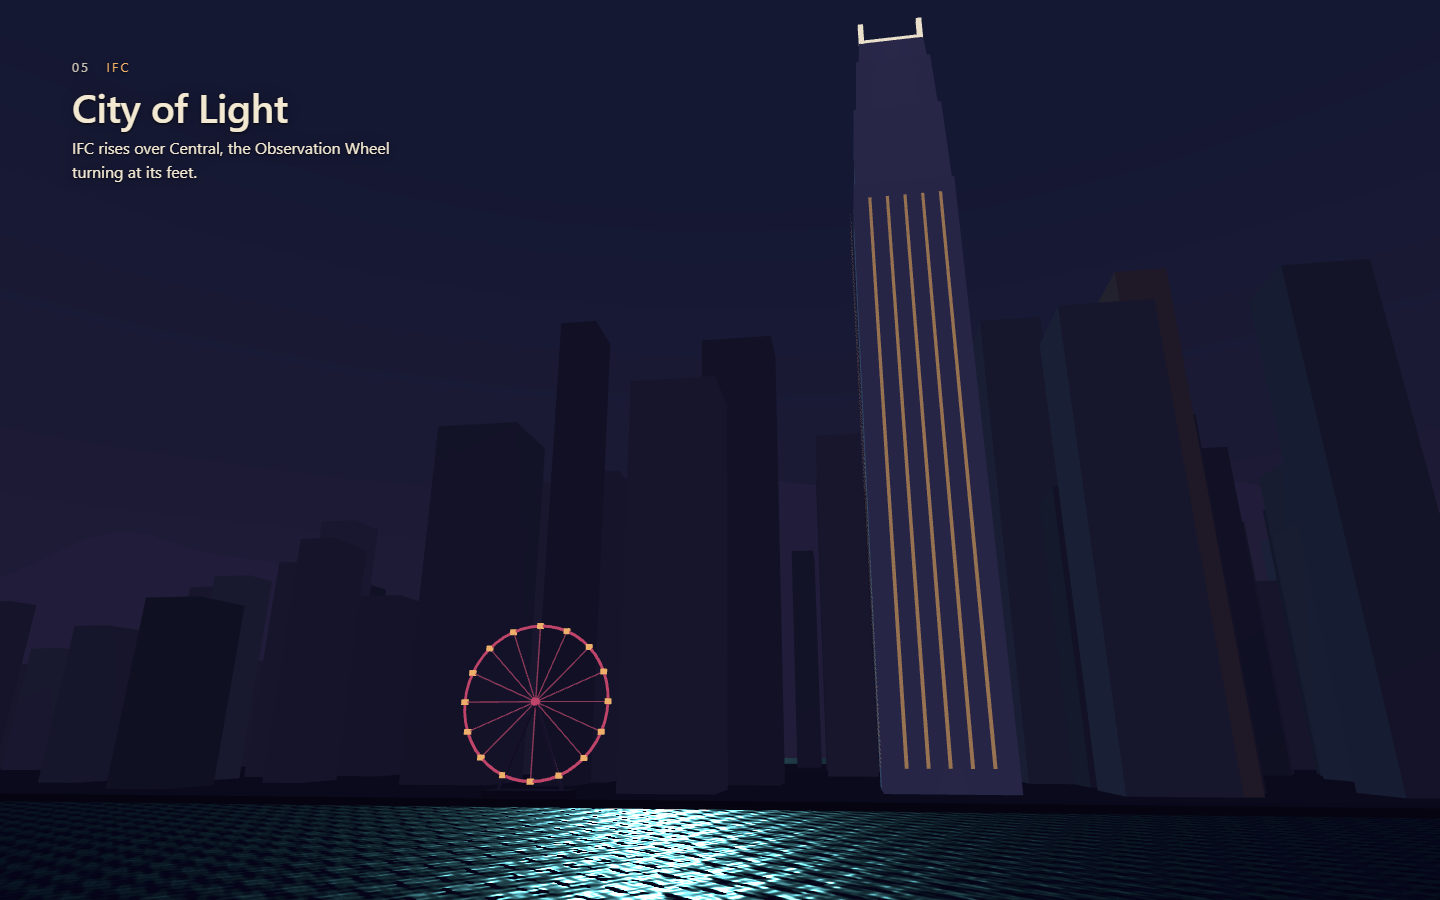
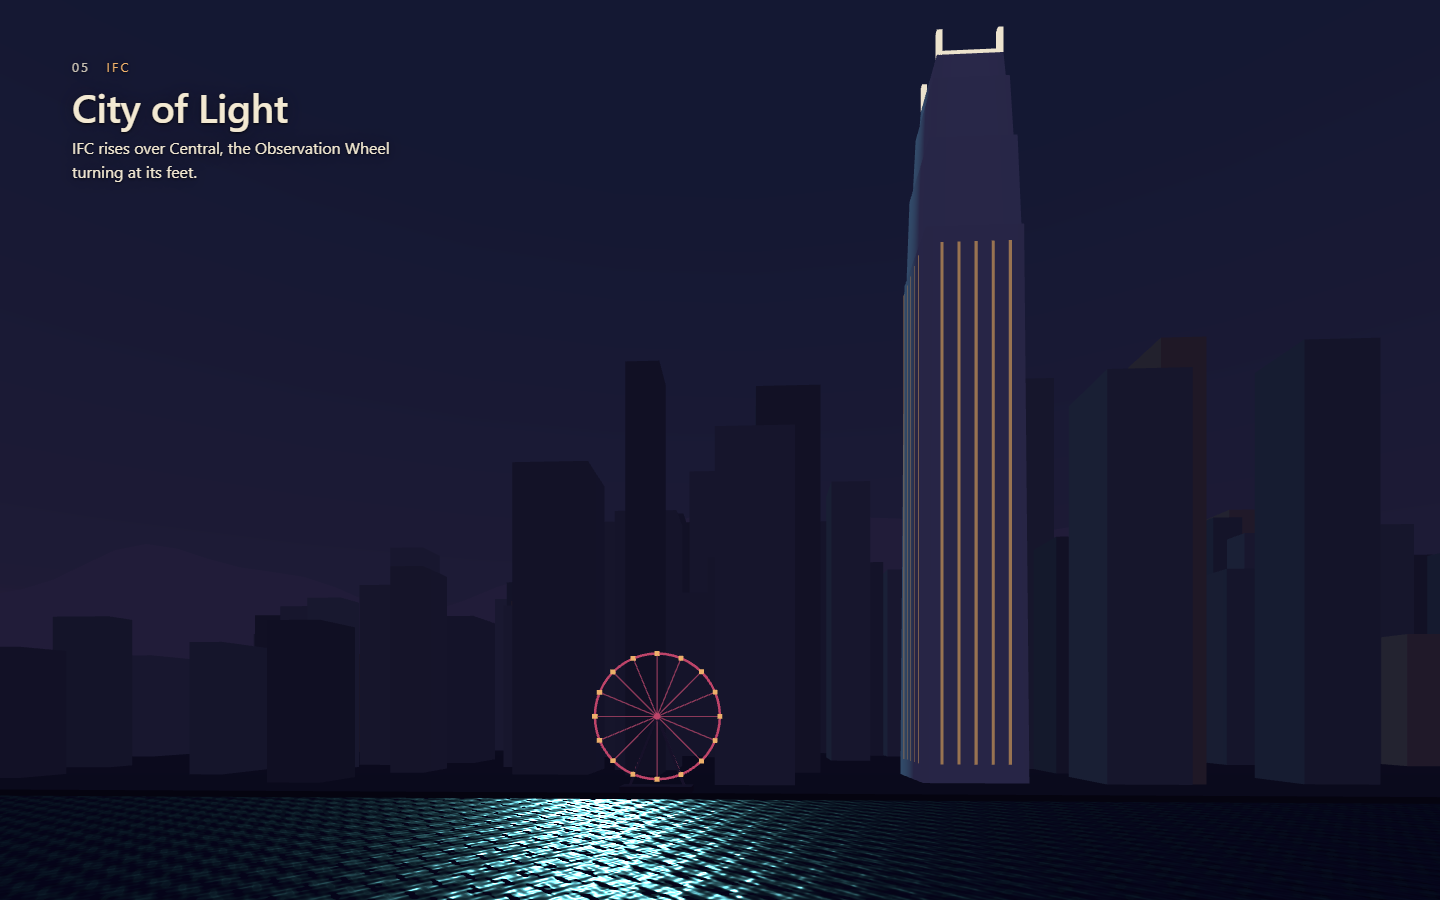
Shift-lens camera: keep verticals upright, re-solve affected poses
aimCamera() keeps the camera level and slides the frustum (setViewOffset) so the authored target sits at frame centre. Used by the rig, the solver camera and burst placement; bursts now sit at a fixed depth. Re-solved 01m, 02d, 03m, 04d, 05d, 06d, 06m; 05 desktop is framed for IFC with the wheel noted as a deviation. Refreshed all 12 review screenshots.

diff --git a/src/data/chapters.js b/src/data/chapters.js
@@ -38,7 +38,7 @@ export const chapters = [
         holdDolly: [0, 0, -4],
         via: [[-50, 7, 58]],
       },
-      mobile: { position: [-43.8, 8.3, 99], target: [6.9, 119.1, -282], fov: 79.9 },
+      mobile: { position: [-43.3, 7.5, 99], target: [7.4, 120.4, -281.4], fov: 77.8 },
     },
     copy: {
       desktop: { left: 22, top: 8, right: 52, bottom: 31 },
@@ -52,7 +52,7 @@ export const chapters = [
     fogDensity: 0.00045,
     vessels: {
       desktop: { ferry: [-29.6, -106.6, 0], junk: [25.2, -54.2, 0] },
-      mobile: { ferry: [-19.7, -89.9, 0], junk: [-17.5, -30.5, 0] },
+      mobile: { ferry: [-19.7, -89.9, 0], junk: [-18.6, -22.1, 0] },
     },
     probes: {
       desktop: {
@@ -83,9 +83,9 @@ export const chapters = [
     },
     camera: {
       desktop: {
-        position: [-79.1, 6, 33.3],
-        target: [179.4, 107.2, -254.6],
-        fov: 55.8,
+        position: [-81.2, 7.5, 38.7],
+        target: [185.3, 107.5, -242.3],
+        fov: 57.3,
         via: [[-28, 7, 22], [5, 5, -90]],
       },
       mobile: {
@@ -105,7 +105,7 @@ export const chapters = [
     },
     fogDensity: 0.00045,
     vessels: {
-      desktop: { ferry: [14.4, -7.5, -0.2], junk: [120, -80, 0] },
+      desktop: { ferry: [7.9, 5.9, -0.2], junk: [120, -80, 0] },
       mobile: { ferry: [20, -120, 0.8], junk: [120, -80, 0] },
     },
     probes: {
@@ -134,7 +134,7 @@ export const chapters = [
     },
     camera: {
       desktop: { position: [76.5, 2.2, -323.3], target: [46.2, 42.3, -720.1], fov: 55.1 },
-      mobile: { position: [-30, 2.1, -220], target: [44.5, 107.1, -598.8], fov: 80.2, via: [[60, 3, -300]] },
+      mobile: { position: [-31.2, 1.8, -218.1], target: [41.8, 112.7, -595.4], fov: 80.1, via: [[60, 3, -300]] },
     },
     copy: {
       desktop: { left: 5, top: 6, right: 42, bottom: 22 },
@@ -147,7 +147,7 @@ export const chapters = [
     fogDensity: 0.00045,
     vessels: {
       desktop: { ferry: [70.4, -358.6, 1.26], junk: [30, -310, 0.3] },
-      mobile: { ferry: [-21.8, -274.2, 1], junk: [-60, -240, 0.3] },
+      mobile: { ferry: [-23.4, -270.9, 1], junk: [-60, -240, 0.3] },
     },
     probes: {
       desktop: {
@@ -175,7 +175,7 @@ export const chapters = [
       mobile: `${SB}/frame-04-red-sails-mobile-rough.png`,
     },
     camera: {
-      desktop: { position: [153.5, 3, -421.3], target: [-21.7, 67.8, -775], fov: 70.9 },
+      desktop: { position: [155.7, 3, -426.1], target: [-34.2, 86.8, -768.1], fov: 79.9 },
       mobile: { position: [152.4, 3, -378.2], target: [173.6, 97.2, -766.4], fov: 78 },
     },
     copy: {
@@ -190,7 +190,7 @@ export const chapters = [
     },
     fogDensity: 0.00063,
     vessels: {
-      desktop: { ferry: [400, -700, 1.2], junk: [148.4, -448.8, 0.46] },
+      desktop: { ferry: [400, -700, 1.2], junk: [151, -451.1, 0.46] },
       mobile: { ferry: [400, -700, 1.2], junk: [153.6, -431, 0.17] },
     },
     probes: {
@@ -219,7 +219,7 @@ export const chapters = [
       mobile: `${SB}/frame-05-city-of-light-mobile-rough.png`,
     },
     camera: {
-      desktop: { position: [462.3, 25, -760], target: [405.4, 152.1, -1135], fov: 55.2 },
+      desktop: { position: [380, 40.4, -779], target: [362.9, 183.7, -1152], fov: 66.5 },
       mobile: { position: [568.7, 50, -500], target: [476.2, 139.4, -878.8], fov: 64.1 },
     },
     copy: {
@@ -237,8 +237,8 @@ export const chapters = [
     },
     // Deviation: the PNG draws the wheel about 3.5× its true size relative to
     // IFC (frames 01 and 03 do not), so the wheel keeps its placement left of
-    // IFC at true scale, and the camera sits ~420 m from IFC rather than the
-    // 650–700 m hint, which would crop IFC's crown (review note).
+    // IFC at true scale. Desktop is solved for IFC; the wheel lands at about
+    // 41–50% instead of 29–42% (review note).
     probes: {
       desktop: {
         ifc: { left: 62, right: 72, top: 3, bottom: 87 },
@@ -259,8 +259,8 @@ export const chapters = [
       mobile: `${SB}/frame-06-afterglow-departure-mobile-rough.png`,
     },
     camera: {
-      desktop: { position: [263.7, 32.9, -450], target: [303.1, 273.6, -767.1], fov: 55 },
-      mobile: { position: [438.3, 48.5, -350.1], target: [431.1, 294.6, -665.4], fov: 71.7 },
+      desktop: { position: [271.8, 32.7, -467.7], target: [299.2, 263.7, -793.2], fov: 54.7 },
+      mobile: { position: [447.2, 57.1, -365.3], target: [434.4, 277.9, -698.6], fov: 63 },
     },
     copy: {
       desktop: { left: 5, top: 12, right: 38, bottom: 62 },

diff --git a/src/scene/createForeground.js b/src/scene/createForeground.js
@@ -15,6 +15,7 @@ import {
   Vector3,
 } from 'three';
 import { WORLD } from '../data/world.js';
+import { aimCamera } from '../scroll/cameraRig.js';
 
 function fadeMaterial(color, extra = {}) {
   return new MeshBasicMaterial({ color, transparent: true, opacity: 1, ...extra });
@@ -144,18 +145,18 @@ export function createForeground() {
     placementCamera.aspect = aspect;
     placementCamera.near = 0.5;
     placementCamera.far = 5000;
-    placementCamera.position.fromArray(pose.position);
-    placementCamera.lookAt(new Vector3().fromArray(pose.target));
-    placementCamera.updateProjectionMatrix();
+    aimCamera(placementCamera, new Vector3().fromArray(pose.position), new Vector3().fromArray(pose.target));
     placementCamera.updateMatrixWorld();
 
-    const distance = 1600;
-    const viewWidth = 2 * distance * Math.tan((pose.fov * Math.PI) / 360) * aspect;
+    const depth = 1600;
+    const viewWidth = 2 * depth * Math.tan((pose.fov * Math.PI) / 360) * aspect;
+    const forward = placementCamera.getWorldDirection(new Vector3());
     specs.forEach((spec, i) => {
       const item = bursts.items[i];
       ndc.set((spec.x / 100) * 2 - 1, 1 - (spec.y / 100) * 2, 0.5).unproject(placementCamera);
       const dir = ndc.sub(placementCamera.position).normalize();
-      item.object.position.copy(placementCamera.position).addScaledVector(dir, distance);
+      // Same depth for every marker, so the lens shift doesn't enlarge high ones.
+      item.object.position.copy(placementCamera.position).addScaledVector(dir, depth / dir.dot(forward));
       item.object.scale.setScalar((spec.size / 100) * viewWidth * 0.5);
       item.object.quaternion.copy(placementCamera.quaternion);
       item.material.color.setHex(BURST_COLORS[spec.color]);

diff --git a/src/scroll/cameraRig.js b/src/scroll/cameraRig.js
@@ -26,6 +26,23 @@ export function fovForAspect(fov, aspect, breakpoint) {
   return Math.min(widened, fov + MAX_FOV_WIDENING);
 }
 
+const levelTarget = new Vector3();
+
+// Shift lens: the camera stays level (so verticals stay vertical) and the
+// frustum slides up or down until `target` sits at the centre of the frame.
+// Call after setting fov and aspect.
+export function aimCamera(camera, position, target) {
+  camera.position.copy(position);
+  const dx = target.x - position.x;
+  const dz = target.z - position.z;
+  const tanPitch = (target.y - position.y) / Math.max(Math.hypot(dx, dz), 1e-6);
+  camera.up.set(0, 1, 0);
+  camera.lookAt(levelTarget.set(target.x, position.y, target.z));
+  const halfHeight = Math.tan(MathUtils.degToRad(camera.fov / 2));
+  // setViewOffset also sets aspect = fullWidth / fullHeight.
+  camera.setViewOffset(camera.aspect, 1, 0, -tanPitch / (2 * halfHeight), camera.aspect, 1);
+}
+
 export function createCameraRig(camera, chapters, { hold }) {
   const count = chapters.length;
   let positionCurve;
@@ -102,9 +119,7 @@ export function createCameraRig(camera, chapters, { hold }) {
     const toFov = poses[segment.to].fov;
     const fov = MathUtils.lerp(fromFov, toFov, segment.eased);
     camera.fov = fovForAspect(fov, aspect, breakpoint);
-    camera.up.set(0, 1, 0);
-    camera.lookAt(target);
-    camera.updateProjectionMatrix();
+    aimCamera(camera, camera.position, target);
     return segment;
   }
 

diff --git a/src/ui/debug.js b/src/ui/debug.js
@@ -157,6 +157,7 @@ export function createDebug(ctx) {
     control.free = !control.free;
     root.classList.toggle('is-free-camera', control.free);
     if (control.free) {
+      camera.clearViewOffset();
       orbit = new OrbitControls(camera, renderer.domElement);
       orbit.target.copy(camera.position).add(camera.getWorldDirection(new Vector3()).multiplyScalar(100));
       orbit.update();
@@ -167,7 +168,10 @@ export function createDebug(ctx) {
   }
 
   function currentPose() {
-    const target = camera.position.clone().add(camera.getWorldDirection(new Vector3()).multiplyScalar(400));
+    const direction = camera.getWorldDirection(new Vector3());
+    // A level camera with a lens shift looks along the shifted frame centre.
+    if (camera.view?.enabled) direction.y = -camera.view.offsetY * 2 * Math.tan((camera.fov * Math.PI) / 360);
+    const target = camera.position.clone().add(direction.normalize().multiplyScalar(400));
     const round = (n) => Math.round(n * 10) / 10;
     return {
       position: camera.position.toArray().map(round),

diff --git a/src/ui/composition.js b/src/ui/composition.js
@@ -1,6 +1,7 @@
 // Development-only composition maths: landmark screen rectangles, target
 // scoring, and a small Nelder–Mead pose solver. Imported by debug.js only.
 import { Box3, Matrix4, PerspectiveCamera, Plane, Ray, Vector2, Vector3 } from 'three';
+import { aimCamera } from '../scroll/cameraRig.js';
 
 const v = new Vector3();
 const m = new Matrix4();
@@ -176,14 +177,11 @@ export function paramsToPose([px, py, pz, yawDeg, pitchDeg, fov], distance = 400
 }
 
 export function poseCamera(camera, pose, aspect) {
-  camera.position.fromArray(pose.position);
-  camera.up.set(0, 1, 0);
-  camera.lookAt(v.fromArray(pose.target));
   camera.fov = pose.fov;
   camera.aspect = aspect;
   camera.near = 0.5;
   camera.far = 5000;
-  camera.updateProjectionMatrix();
+  aimCamera(camera, new Vector3().fromArray(pose.position), v.fromArray(pose.target));
   camera.updateMatrixWorld();
   return camera;
 }

diff --git a/docs/greybox-review/REVIEW.md b/docs/greybox-review/REVIEW.md
@@ -22,18 +22,18 @@ one with its storyboard PNG in `docs/storyboards/`.
 1. **02 desktop — IFC and wheel.** They sit behind the Clock Tower rather than
    out of frame. The camera is on the IFC–tower line, so the tower hides them.
 2. **03 mobile — IFC is larger than in the PNG.** At the PNG's size it would
-   need a camera far outside the harbour. Its right edge reaches about 98%
-   (target 94%).
+   need a camera far outside the harbour. Its left edge is at about 87%
+   (target 83%), and the ferry's roof sits about 3% lower than drawn.
 3. **04 mobile — IFC is a cropped edge cue** at the right edge, for the same
    reason.
 4. **04 — wheel faded out (both viewports).** Framing alone left it peeking
    past the junk's stern, so it fades out while small and distant, then fades
    back in on the way to 05.
 5. **05 — wheel at true scale.** The PNG draws it about 3.5× too big compared
-   with IFC (frames 01 and 03 don't). It keeps its place left of IFC. To fit
-   both, the wheel moved about 50 m west of its first position, and the
-   desktop camera sits about 420 m from IFC instead of the 650–700 m hint.
-   That hint would crop IFC's crown.
+   with IFC (frames 01 and 03 don't). It keeps its place left of IFC. On
+   desktop the camera is framed for IFC (on target), so the wheel lands at
+   about 41–50% across instead of 29–42%. Getting it bigger would push IFC's
+   crown out of the top of the frame.
 6. **01 mobile** is within about 3% of every target. IFC's right edge is at 91%
    (target 88%) and the wheel's left edge at 70% (target 73%).
 7. **02 mobile** has no water strip at the bottom, because the lowered tower
@@ -46,6 +46,13 @@ one with its storyboard PNG in `docs/storyboards/`.
    The geometry follows the PNG.
 
 Everything else is within ±3% of its section 7 target.
+
+## Camera lens
+
+The camera never tilts. It stays level and the picture slides up or down
+instead (a "shift lens", as in architectural photography), so towers stay
+upright like in the storyboards. `target` in `chapters.js` still says what
+sits at the centre of the frame.
 
 ## Checked automatically
 
